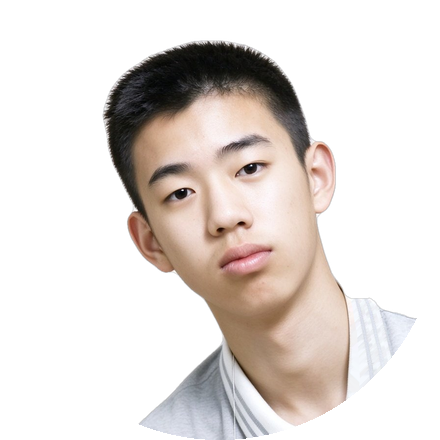
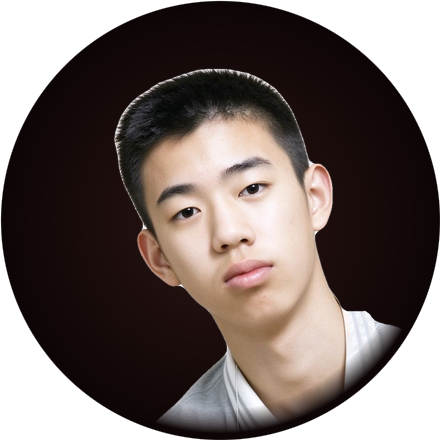
Recompose portrait: add headroom in circle, dark studio backdrop, fade shoulders

diff --git a/css/style.css b/css/style.css
@@ -129,7 +129,8 @@ nav a:hover::after { width: 100%; }
 .scroll-hint::after { content: ""; width: 1px; height: 80px; background: linear-gradient(var(--accent), transparent); display: block; }
 .hero-card { text-align: center; }
 .avatar-ring { width: 220px; height: 220px; margin: 0 auto 24px; border-radius: 50%; padding: 3px; background: var(--grad); }
-.avatar-ring img { width: 100%; height: 100%; border-radius: 50%; object-fit: cover; border: 3px solid var(--bg); }
+/* 头像 PNG 自带圆形裁切与暗底，这里不再加 border/圆角，避免吃掉头顶与肩线 */
+.avatar-ring img { display: block; width: 100%; height: 100%; border-radius: 50%; object-fit: cover; background: #180c0b; }
 .hero-card .name { color: var(--ink); font-size: 16px; font-weight: 700; letter-spacing: 2px; }
 .hero-card .role { color: var(--muted); font-size: 11px; font-weight: 400; letter-spacing: 1px; margin-top: 10px; text-transform: uppercase; }
 
